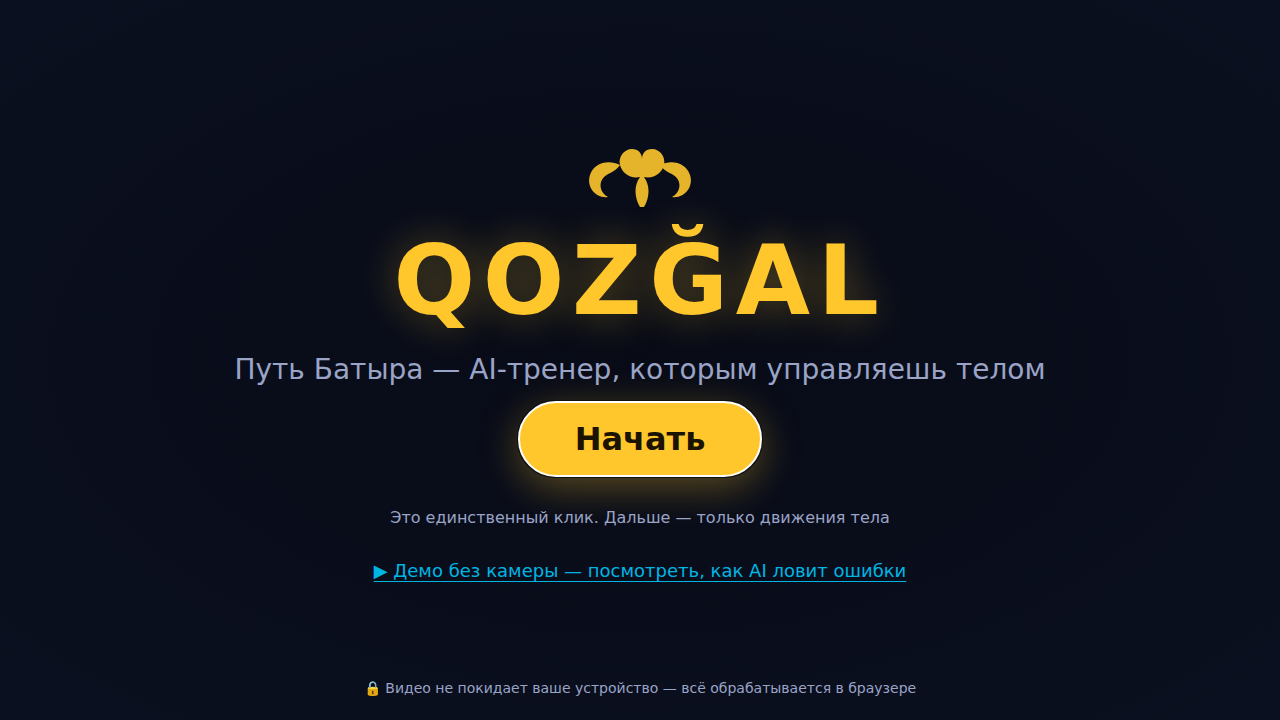
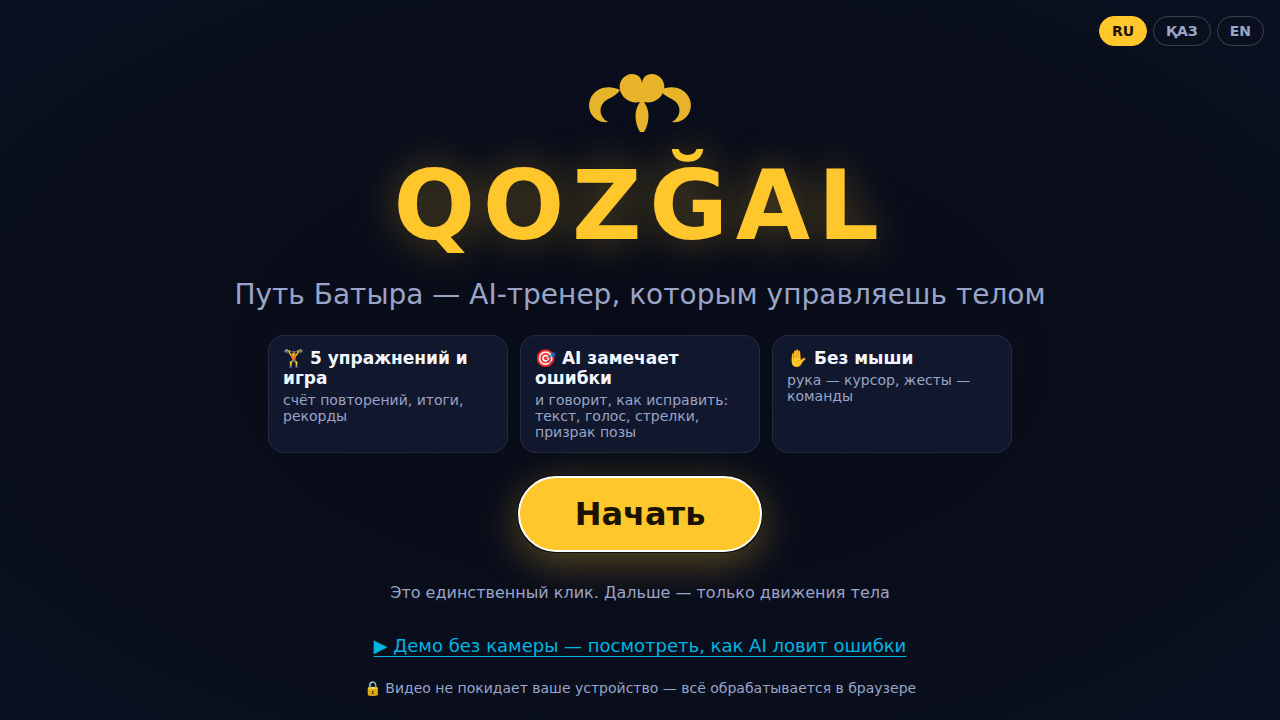
feat(ui): welcome screen feature highlights + language switch; remember mute
Claude-Session: https://claude.ai/code/session_01DxKmW8xufZ11V5jJxNnBbY

diff --git a/src/ui/screens/Welcome.tsx b/src/ui/screens/Welcome.tsx
@@ -1,4 +1,5 @@
-import { t, type I18nKey } from '@/i18n';
+import { t, type I18nKey, type Lang } from '@/i18n';
+import { useApp } from '@/app/store';
 import type { EngineStatus } from '../hooks/usePoseEngine';
 
 /** The only screen that needs a click: browsers require a user gesture for camera + audio. */
@@ -8,12 +9,40 @@ interface Props {
   onDemo: () => void;
 }
 
+const LANGS: { id: Lang; label: string }[] = [
+  { id: 'ru', label: 'RU' },
+  { id: 'kk', label: 'ҚАЗ' },
+  { id: 'en', label: 'EN' },
+];
+
 export function Welcome({ status, onStart, onDemo }: Props) {
+  const { lang, setLang } = useApp();
   return (
     <div className="screen center layer welcome">
+      <div className="lang-switch" role="group" aria-label="language">
+        {LANGS.map((l) => (
+          <button key={l.id} className={l.id === lang ? 'on' : ''} onClick={() => setLang(l.id)}>
+            {l.label}
+          </button>
+        ))}
+      </div>
       <div className="ornament" aria-hidden="true" />
       <h1 className="title">QOZĞAL</h1>
       <p className="subtitle">{t('app.tagline')}</p>
+      <ul className="features">
+        <li>
+          <b>🏋 {t('feat.exercises')}</b>
+          <span>{t('feat.exercisesSub')}</span>
+        </li>
+        <li>
+          <b>🎯 {t('feat.errors')}</b>
+          <span>{t('feat.errorsSub')}</span>
+        </li>
+        <li>
+          <b>✋ {t('feat.gestures')}</b>
+          <span>{t('feat.gesturesSub')}</span>
+        </li>
+      </ul>
       {status.state === 'idle' && (
         <>
           <button className="btn-primary" onClick={onStart} autoFocus>

diff --git a/src/ui/theme/global.css b/src/ui/theme/global.css
@@ -1181,3 +1181,63 @@ body {
   background: var(--err);
   color: #fff;
 }
+
+/* ---------- welcome extras ---------- */
+.lang-switch {
+  position: absolute;
+  top: 16px;
+  right: 16px;
+  display: flex;
+  gap: 6px;
+}
+.lang-switch button {
+  font: inherit;
+  font-weight: 700;
+  font-size: 14px;
+  padding: 6px 12px;
+  border-radius: 999px;
+  border: 1px solid rgba(255, 255, 255, 0.2);
+  background: transparent;
+  color: var(--muted);
+  cursor: pointer;
+}
+.lang-switch button.on {
+  background: var(--gold);
+  color: #1a1300;
+  border-color: var(--gold);
+}
+.features {
+  list-style: none;
+  margin: 8px 0;
+  padding: 0;
+  display: grid;
+  grid-template-columns: repeat(3, minmax(0, 240px));
+  gap: 12px;
+}
+.features li {
+  background: rgba(20, 27, 51, 0.8);
+  border: 1px solid rgba(255, 255, 255, 0.08);
+  border-radius: 16px;
+  padding: 12px 14px;
+  display: flex;
+  flex-direction: column;
+  gap: 4px;
+  text-align: left;
+}
+.features b {
+  font-size: 17px;
+}
+.features span {
+  font-size: 14px;
+  color: var(--muted);
+}
+@media (max-width: 700px) {
+  .features {
+    grid-template-columns: 1fr;
+    width: 100%;
+    max-width: 360px;
+  }
+  .features li {
+    padding: 8px 12px;
+  }
+}

diff --git a/src/app/store.ts b/src/app/store.ts
@@ -67,14 +67,25 @@ const initialLang = (): Lang => {
   return navigator.language?.startsWith('kk') ? 'kk' : 'ru';
 };
 
+const MUTE_KEY = 'qozgal.muted';
+const initialMuted = (): boolean => {
+  try {
+    return localStorage.getItem(MUTE_KEY) === '1';
+  } catch {
+    return false;
+  }
+};
+
 const progress0 = loadProgress();
+const muted0 = initialMuted();
+setMuted(muted0);
 const lang0 = initialLang();
 setI18nLang(lang0);
 
 export const useApp = create<AppState>((set, get) => ({
   screen: 'calibration',
   lang: lang0,
-  muted: false,
+  muted: muted0,
   calibrated: false,
   program: null,
   summary: null,
@@ -98,6 +109,11 @@ export const useApp = create<AppState>((set, get) => ({
   toggleMute: () => {
     const muted = !get().muted;
     setMuted(muted);
+    try {
+      localStorage.setItem(MUTE_KEY, muted ? '1' : '0');
+    } catch {
+      /* ignore */
+    }
     set({ muted });
   },
 

diff --git a/src/i18n/ru.ts b/src/i18n/ru.ts
@@ -85,6 +85,12 @@ export const ru = {
   'rank.alyp': 'Алып',
 
   'ui.start': 'Начать',
+  'feat.exercises': '5 упражнений и игра',
+  'feat.exercisesSub': 'счёт повторений, итоги, рекорды',
+  'feat.errors': 'AI замечает ошибки',
+  'feat.errorsSub': 'и говорит, как исправить: текст, голос, стрелки, призрак позы',
+  'feat.gestures': 'Без мыши',
+  'feat.gesturesSub': 'рука — курсор, жесты — команды',
   'ui.loadingCamera': 'Разрешите доступ к камере…',
   'ui.loadingModel': 'Загружаем модель распознавания…',
   'ui.privacy': '🔒 Видео не покидает ваше устройство — всё обрабатывается в браузере',

diff --git a/src/i18n/kk.ts b/src/i18n/kk.ts
@@ -88,6 +88,12 @@ export const kk = {
   'rank.alyp': 'Алып',
 
   'ui.start': 'Бастау',
+  'feat.exercises': '5 жаттығу және ойын',
+  'feat.exercisesSub': 'қайталау санағы, қорытынды, рекордтар',
+  'feat.errors': 'AI қателерді көреді',
+  'feat.errorsSub': 'және қалай түзеуді айтады: мәтін, дауыс, көрсеткі, дұрыс поза',
+  'feat.gestures': 'Тінтуірсіз',
+  'feat.gesturesSub': 'қол — курсор, қимыл — команда',
   'ui.loadingCamera': 'Камераға рұқсат беріңіз…',
   'ui.loadingModel': 'Тану моделі жүктелуде…',
   'ui.privacy': '🔒 Бейне құрылғыдан шықпайды — бәрі браузерде өңделеді',

diff --git a/src/i18n/en.ts b/src/i18n/en.ts
@@ -87,6 +87,12 @@ export const en = {
   'rank.alyp': 'Giant',
 
   'ui.start': 'Start',
+  'feat.exercises': '5 exercises and a game',
+  'feat.exercisesSub': 'rep counting, summary, records',
+  'feat.errors': 'AI spots mistakes',
+  'feat.errorsSub': 'and tells you how to fix them: text, voice, arrows, pose ghost',
+  'feat.gestures': 'No mouse',
+  'feat.gesturesSub': 'your hand is the cursor, gestures are commands',
   'ui.loadingCamera': 'Allow camera access…',
   'ui.loadingModel': 'Loading the recognition model…',
   'ui.privacy': '🔒 Video never leaves your device — everything runs in the browser',
